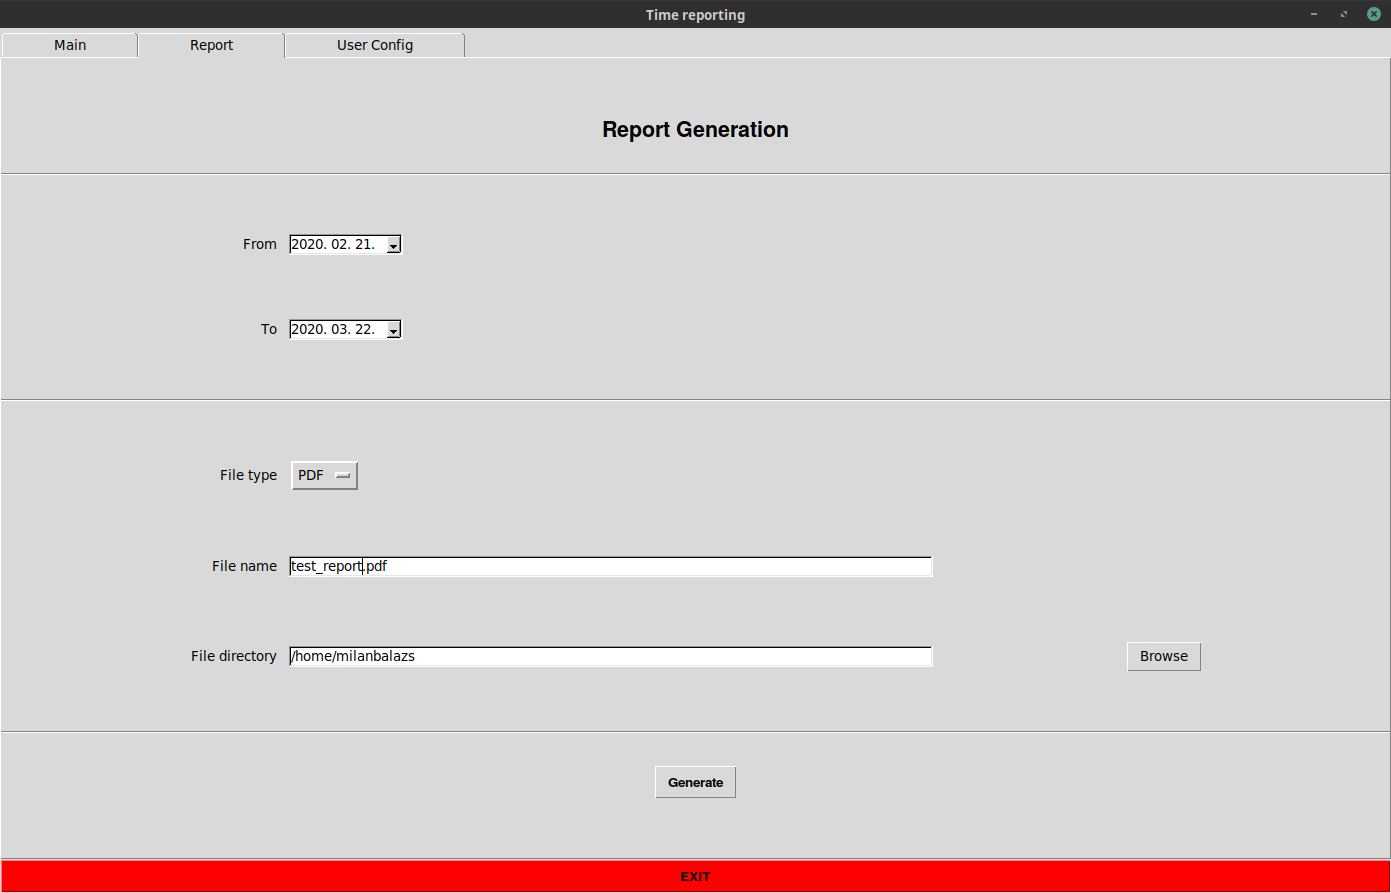
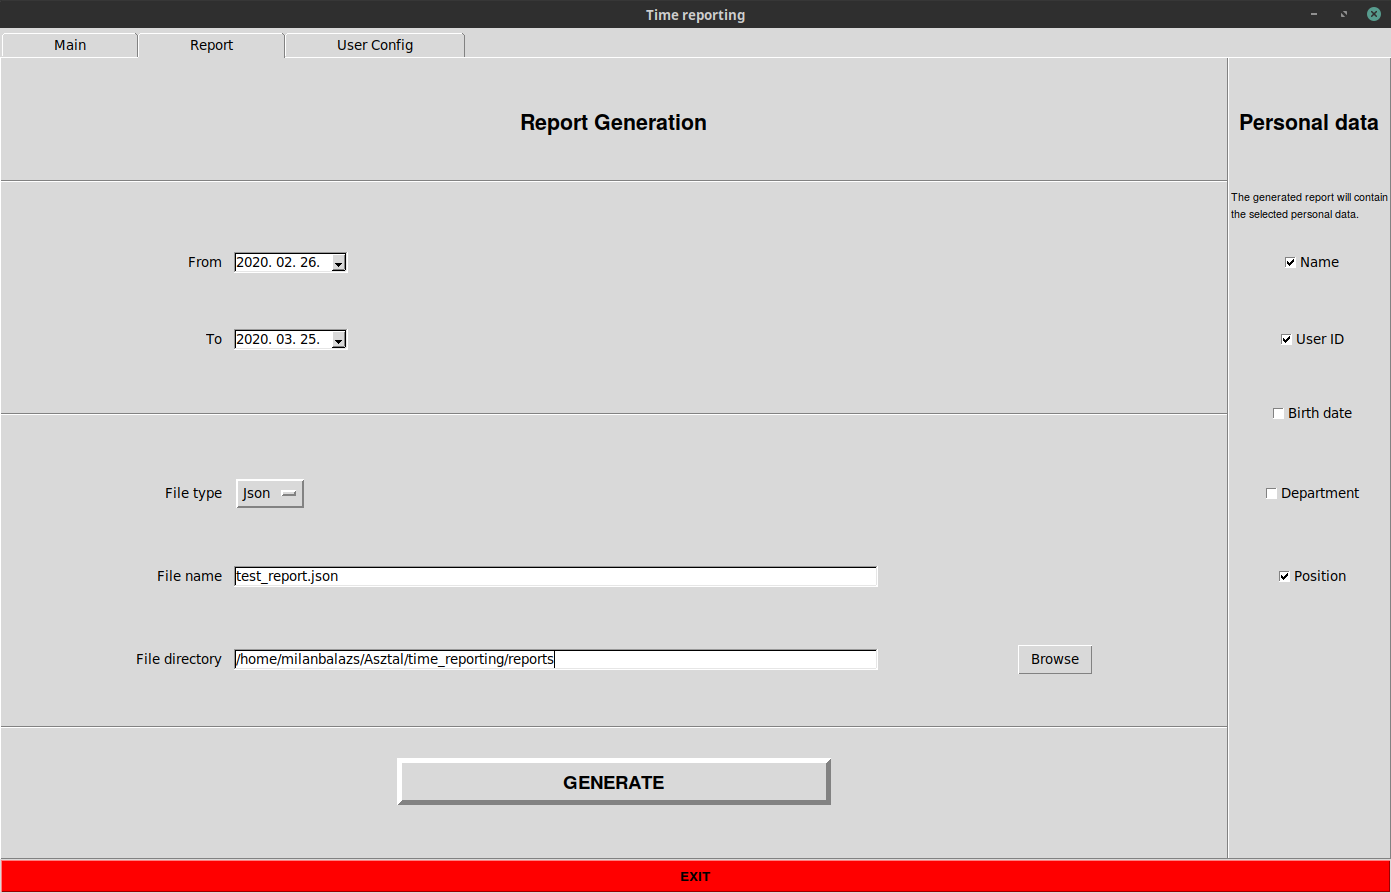
Some little changes on report tab and update pic in README.md

diff --git a/gui/tabs/report_tab.py b/gui/tabs/report_tab.py
@@ -171,8 +171,14 @@ class ReportConfigTab(object):
         personal_data_label = ttk.Label(
             self.main_window, text="Personal data", font=("Helvetica", 16, "bold")
         )
-
         personal_data_label.grid(row=0, column=5, columnspan=1, sticky="s")
+
+        personal_data_info_label = ttk.Label(
+            self.main_window,
+            text="The generated report will contain\nthe selected personal data.",
+            font=("Helvetica", 8),
+        )
+        personal_data_info_label.grid(row=1, column=5, columnspan=1, sticky="s")
 
         self.user_name_var = tk.IntVar()
         user_name_checkbox = tk.Checkbutton(
@@ -306,7 +312,7 @@ class ReportConfigTab(object):
         report_generation_start_button = tk.Button(
             self.main_window,
             width=40,
-            height=2,
+            height=1,
             borderwidth=5,
             text="GENERATE",
             font="Helvetica 14 bold",
